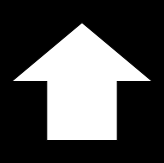
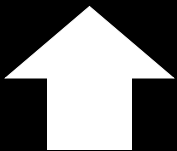
compare size change

Changed region(s): [[0.0305, 0.0265, 1.0, 1.0]]

diff --git a/raspi/opencv/template_matching.py b/raspi/opencv/template_matching.py
@@ -9,16 +9,19 @@ import sys
 if __name__ == '__main__':
     
     # 対象画像を指定
-    base_image_path = './sample.png'
-    temp_image_path = './base.png'
+    base_image_path = './result.png'
+    temp_image_path = './base2.png'
     
     # 画像をグレースケールで読み込み
     gray_base_src = cv2.imread(base_image_path, cv2.IMREAD_GRAYSCALE)
     gray_temp_src = cv2.imread(temp_image_path, cv2.IMREAD_GRAYSCALE)
     
+    #gray_temp_src = cv2.resize(gray_temp_src, dsize=None, fx=0.3, fy=0.3)
+    
     # ラベリング処理
     label = cv2.connectedComponentsWithStats(gray_base_src)
     n = label[0] - 1
+    print(n)
     data = np.delete(label[2], 0, 0)
     
     # マッチング結果書き出し準備
@@ -27,39 +30,36 @@ if __name__ == '__main__':
     
 
     # ラベリング情報を利用して各オブジェクトごとのマッチング結果を画面に表示
-    for i in range(n):
+    for i in range(n-1):
  
         # 各オブジェクトの外接矩形を赤枠で表示
         x0 = data[i][0]
         y0 = data[i][1]
         x1 = data[i][0] + data[i][2]
         y1 = data[i][1] + data[i][3]
-        print(data[i][3])
-        print(data[i][2])
+        #print(data[i][3])
+        #print(data[i][2])
         cv2.rectangle(color_src, (x0, y0), (x1, y1), (0, 0, 255))
 
         # 各オブジェクトごとの類似度を求める
-        if(i==4):
-            x2 = x0 - 5 -25
-            y2 = y0 - 5 -29
-            x3 = x0 + width + 5 +25
-            y3 = y0 + height + 5 +29
-            crop_src = gray_base_src[y2:y3, x2:x3]
-            cv2.imshow("",crop_src)
-        else:
-            x2 = x0 - 5
-            y2 = y0 - 5
-            x3 = x0 + width + 5
-            y3 = y0 + height + 5
+        x2 = x0 - 5
+        y2 = y0 - 5
+        #x3 = x0 + width + 5
+        #y3 = y0 + height + 5
+        x3 = x1 + 5
+        y3 = y1 +5
 
         crop_src = gray_base_src[y2:y3, x2:x3]
         #cv2.imshow("",crop_src)
         c_height, c_width = crop_src.shape[:2]
 
+        print(crop_src.shape,gray_temp_src.shape)
         res = cv2.matchTemplate(crop_src, gray_temp_src, cv2.TM_CCOEFF_NORMED)
         res_num = cv2.minMaxLoc(res)[1]
         cv2.putText(color_src, str(i + 1) + ") " +str(round(res_num, 3)), (x0, y1 + 15), cv2.FONT_HERSHEY_PLAIN, 1, (0, 255, 255))
-
+        
+    
+    color_src = cv2.resize(color_src, dsize=None, fx=0.5, fy=0.5)
     # 結果の表示
     cv2.imshow("color_src", color_src)
 

diff --git a/raspi/opencv/binarization.py b/raspi/opencv/binarization.py
@@ -4,13 +4,14 @@ import numpy as np
 
 if __name__ == '__main__':
     
-    temp_image_path = './image_1.jpg'
+    temp_image_path = './image_2.jpg'
     gray_temp_src = cv2.imread(temp_image_path, cv2.IMREAD_GRAYSCALE)
-    ret,img_thresh = cv2.threshold(gray_temp_src, 70, 255, cv2.THRESH_BINARY_INV)
+    ret,img_thresh = cv2.threshold(gray_temp_src, 40, 255, cv2.THRESH_BINARY_INV)
     height,width = img_thresh.shape[:2]
-    img_thresh = cv2.resize(img_thresh, dsize=None, fx=0.2, fy=0.2)
-    cv2.imshow("img_thresh", img_thresh)
-    cv2.waitKey()
-    cv2.destroyAllWindows()
+    #img_thresh = cv2.resize(img_thresh, dsize=None, fx=0.8, fy=0.8)
+    #cv2.imshow("img_thresh", img_thresh)
+    cv2.imwrite("result.png", img_thresh)
+    #cv2.waitKey()
+    #cv2.destroyAllWindows()
     
     
